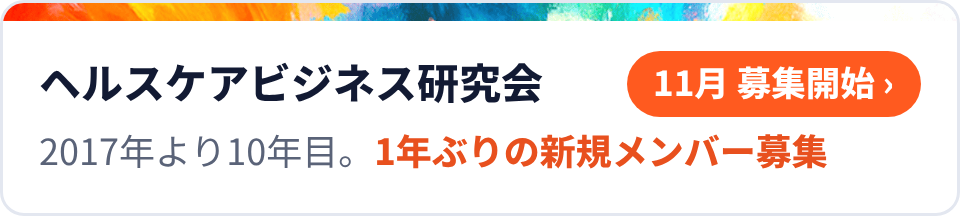
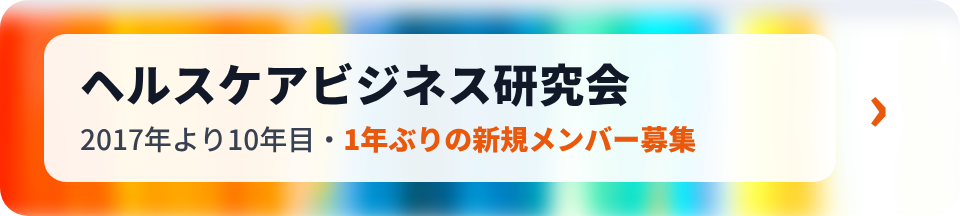
ヘルスケアビジネス研究会の帯を案Dに変更（水彩の地＋幅広の白い文字台、スマホは縦横比 1440:290）（加藤さん承認）
Claude-Session: https://claude.ai/code/session_01BAc56ZzkABZCPBiEaEBErB

diff --git a/src/components/salon-banner.tsx b/src/components/salon-banner.tsx
@@ -18,7 +18,7 @@ export function SalonBanner({ variant }: { variant: 'mobile' | 'pc' }) {
       style={({ pressed }) => pressed && { opacity: 0.8 }}>
       <Image
         source={variant === 'mobile' ? require('@/assets/images/salon-banner-mobile.png') : require('@/assets/images/salon-banner-pc.png')}
-        style={[styles.image, { aspectRatio: variant === 'mobile' ? 1440 / 176 : 960 / 216 }]}
+        style={[styles.image, { aspectRatio: variant === 'mobile' ? 1440 / 290 : 960 / 216 }]}
         contentFit="contain"
       />
     </Pressable>
